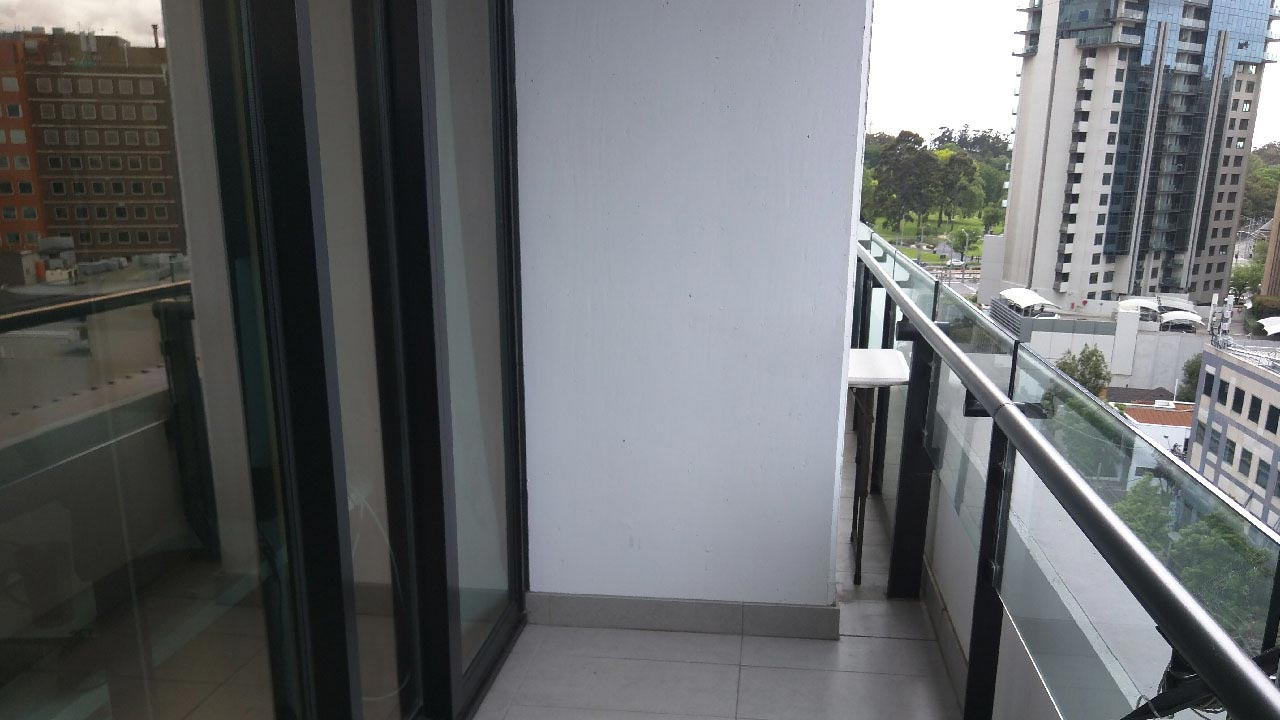
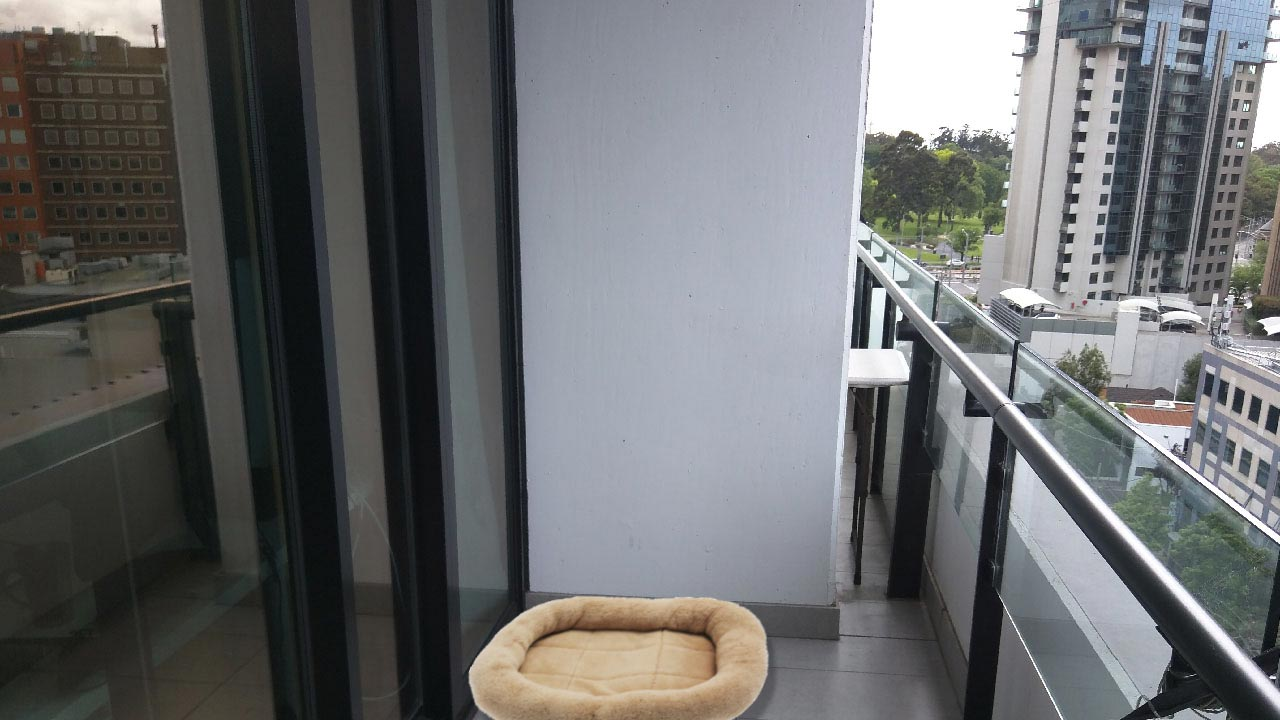
Updating art & adding some text dialogs

Changed region(s): [[0.3438, 0.825, 0.625, 1.0]]

diff --git a/public/js/game.js b/public/js/game.js
@@ -1,6 +1,6 @@
 var DEBUG = (window.location.search == "?debug");
-var DEBUG_STARTING_GRUNGE_LEVEL = 'normal';
-var DEBUG_STARTING_VIEW_KEY = 'livingroom_forward';
+var DEBUG_STARTING_GRUNGE_LEVEL = 'grunge_02';
+var DEBUG_STARTING_VIEW_KEY = 'corridor';
 
 var GAME_WIDTH = 1280;
 var GAME_HEIGHT = 720;
@@ -8,7 +8,7 @@ var GRUNGE_LEVELS = ['normal', 'grunge_01', 'grunge_02']
 
 var AUDIO = {
   grunge_level_normal: { volume: 0.15, },
-  grunge_level_grunge_01: { volume: 0.3, },
+  grunge_level_grunge_01: { volume: 0.25, },
   grunge_level_grunge_02: { volume: 0.5, },
 };
 
@@ -17,32 +17,23 @@ var ITEMS = {
     has_view_image: false,
     action: {
       do_choose: function(){ return state.grunge_level },
-      normal: {
-        do_dialog: 'computer',
-        do_grunge_level: 'grunge_01',
-      },
-      grunge_01: {
-        do_dialog: 'computer_original',
-      }
+      normal:    { do_dialog: 'computer', do_grunge_level: 'grunge_01' },
+      grunge_01: { do_dialog: 'computer_original', do_grunge_level: 'grunge_02' },
     }
   },
 
   key: {
     has_view_image: true,
-    action: {
-      do_give: 'key',
-      do_destroy: true,
-      do_dialog: 'key',
-    }
+    action: { do_dialog: 'key', do_give: 'key', do_destroy: true },
   },
 
   photo: {
     has_view_image: false,
     action: {
       do_choose: function(){ return state.grunge_level; },
-      normal: { do_dialog: 'photo_normal' },
-      grunge_01: { do_dialog: 'photo_grunge01' },
-      grunge_02: { do_dialog: 'photo_grunge02' },
+      normal:    { do_dialog: 'photo_normal' },
+      grunge_01: { do_dialog: 'photo_grunge_01' },
+      grunge_02: { do_dialog: 'photo_grunge_02' },
     },
   },
 
@@ -52,16 +43,6 @@ var ITEMS = {
       locked: { do_dialog: 'door_locked' },
       unlocked: { do_view: 'corridor' },
     }
-  },
-
-  norofon: {
-    has_view_image: false,
-    action: {
-      do_choose: function(){ return state.grunge_level; },
-      normal: { do_dialog: 'norofon_normal' },
-      grunge_01: { do_dialog: 'norofon_grunge01', do_grunge_level: 'grunge_02' },
-      grunge_02: { do_dialog: 'norofon_grunge02' },
-    },
   },
 
   monster: {
@@ -82,26 +63,34 @@ var DIALOGS = {
   },
   computer_original: { text: 'Is that hacker news?' },
   door_locked: { text: 'The door is locked.' },
-  enter_test: { text: 'This is a test. Beep boop beep.' },
 
-  photo_normal: { image: true, text: 'My two girls. They must have gone for a walk without me.' },
-  photo_grunge01: { image: true, text: '...' },
-  photo_grunge02: { image: true, text: '...' },
+  photo_normal: { image: true, text: 'My two girls. They must have gone for a walk.' },
+  photo_grunge_01: { image: true, text: "They didn't go for a walk, did they?" },
+  photo_grunge_02: { image: true, text: 'Sal?' },
 
-  norofon_normal: { image: true, text: 'My two girls. They must have gone for a walk without me.' },
-  norofon_grunge01: { image: true, text: '...' },
-  norofon_grunge02: { image: true, text: '...' },
+  // view enter_action dialogs
+  bed_forward_normal: { text: "It's light out. Why didn't Sal wake me?" },
+  livingroom_backward_normal: { text: "Is that Sal's hair?" },
+  hallway_backward_entrance_normal: { text: "Sounds like it's coming from outside." },
+  corridor_grunge_02: { text: "Hello?" },
+  bed_backward_grunge_02: { text: "Is that me?" },
 }
 
 var VIEWS = {
   bed_forward: {
     paths: { bed_backward: [890, 670] },
+    enter_action: {
+      do_choose: function(){ return state.grunge_level; },
+      normal: { do_dialog: 'bed_forward_normal' },
+    }
   },
 
   bed_backward: {
-    paths: {
-      hallway_forward: [132.5, 663],
-    },
+    paths: { hallway_forward: [132.5, 663] },
+    enter_action: {
+      do_choose: function(){ return state.grunge_level; },
+      grunge_02: { do_dialog: 'bed_backward_grunge_02' },
+    }
   },
 
   hallway_forward: {
@@ -126,16 +115,15 @@ var VIEWS = {
 
   balcony: {
     paths: { livingroom_backward: [102.5, 668] },
-    enter_action: { do_dialog: 'enter_test' },
     items: { monster: [720, 516] }
   },
 
   livingroom_backward: {
-    paths: {
-      hallway_backward_couch: [979, 106],
-    },
-    items: {
-      key: [610, 447],
+    paths: { hallway_backward_couch: [979, 106] },
+    items: { key: [610, 447] },
+    enter_action: {
+      do_choose: function(){ return state.grunge_level; },
+      normal: { do_dialog: 'livingroom_backward_normal' },
     }
   },
 
@@ -144,8 +132,10 @@ var VIEWS = {
       hallway_forward: [658, 670],
       bathroom: [268, 343],
     },
-    items: {
-      door: [694.5, 355],
+    items: { door: [694.5, 355] },
+    enter_action: {
+      do_choose: function(){ return state.grunge_level; },
+      normal: { do_dialog: 'hallway_backward_entrance_normal' },
     }
   },
 
@@ -158,11 +148,15 @@ var VIEWS = {
 
   corridor: {
     paths: { hallway_backward_entrance: [667, 680] },
+    enter_action: {
+      do_choose: function(){ return state.grunge_level; },
+      grunge_02: { do_dialog: 'corridor_grunge_02' },
+    }
   },
 
   bathroom: {
     paths: { hallway_forward: [1220, 494] },
-    items: { norofon: [1130, 342] },
+    items: {},
   }
 }
 
@@ -237,6 +231,7 @@ function start_game() {
   play_grunge_level_audio(state.grunge_level);
 
   state.view_group = make_view_group(state.view_key, state.grunge_level);
+  perform_view_action(state.view_key);
   if(!DEBUG){
     game.add.tween(state.view_group).from({alpha: 0}, 2000, 'Linear', true);
   }
@@ -341,7 +336,10 @@ function move_to_view(view_key) {
   state.last_click = null;
   state.view_key = view_key;
   state.view_group = make_view_group(view_key, state.grunge_level);
+  perform_view_action(view_key);
+}
 
+function perform_view_action(view_key) {
   view = VIEWS[view_key];
   if(view.enter_action){
     action = view.enter_action;
